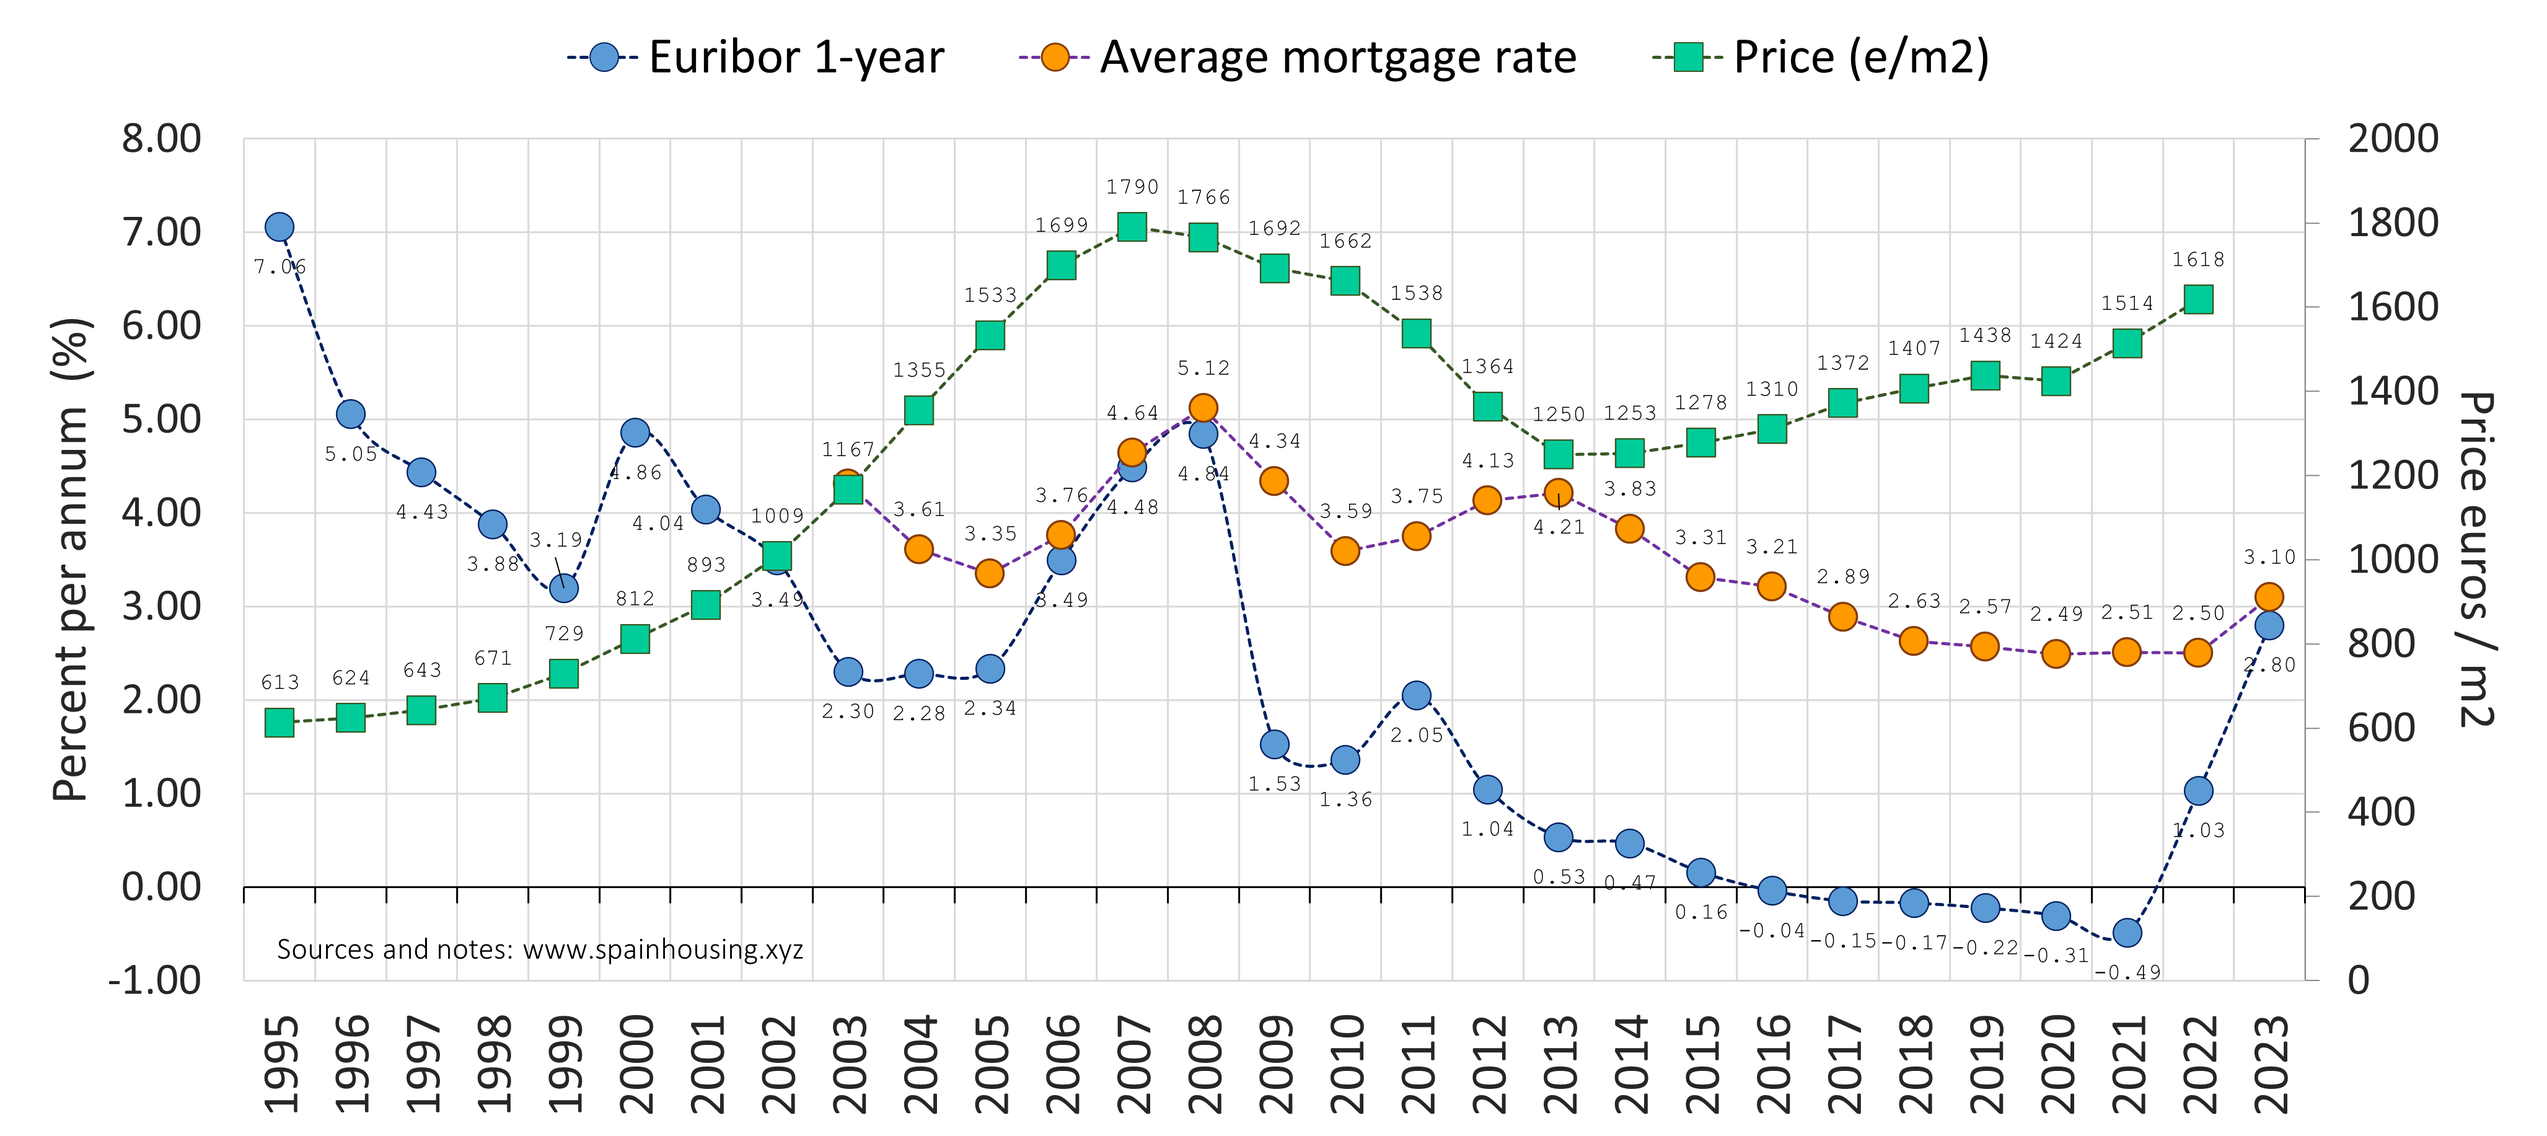
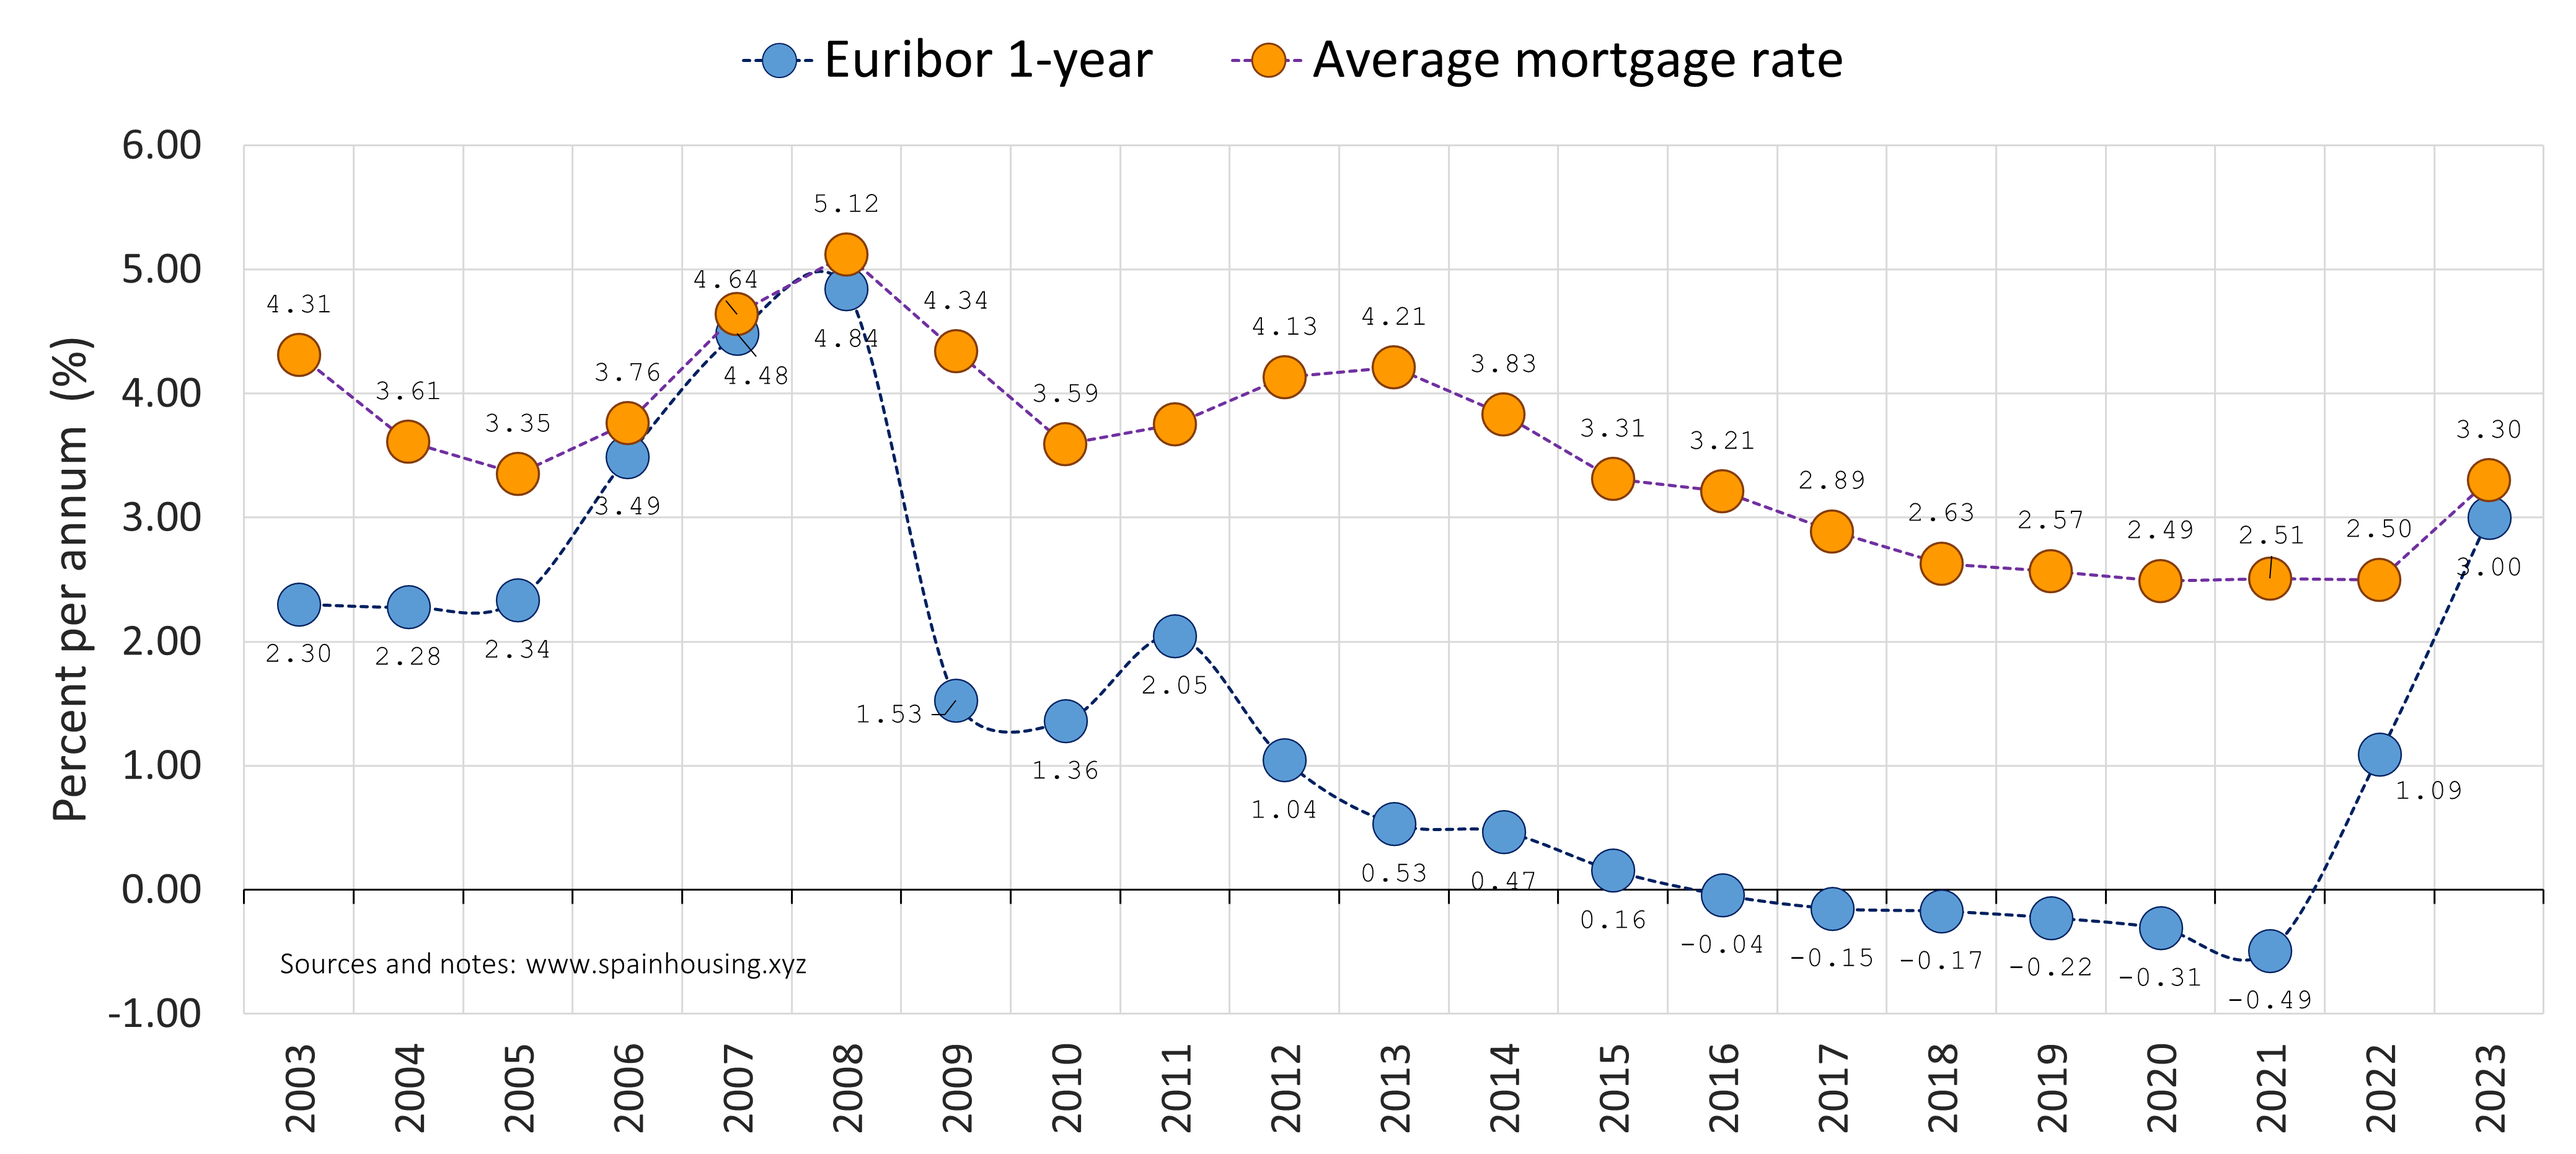
update_interest rate

diff --git a/pages/posts/credit.md b/pages/posts/credit.md
@@ -37,9 +37,12 @@ Credit correlates positively with the evolution of housing prices. Some observat
 
 [![Euribor y interes hipotecas](/images/euribor.png)](/images/euribor.png)
 
-- **Euribor, mortgage rates and housing prices**, Spain.
-  - **Left axis (%)**: Euribor 1-year average rate and average mortgage rate.
-  - **Right axis (e/m2)**: house price in euros per square meter.
+- **Euribor 1-year average rate and average mortgage rate**, Spain.
+
+[![Politica monetaria y precio vivienda](/images/pricemoneypolicy.png)](/images/pricemoneypolicy.png)
+
+- **Nominal price and Interest rate**: percentage of annual change compared to the previous year.
+  - _About the interest rate_: until 2001, the reference interest rate is the _Mibor_, and from 2002 onwards is the _Euribor_. The interest rate value has been multiplied by a factor of 10 for easier visualization. Blue = tight monetary policy; orange = loose monetary policy.
 
 [![Tipo de hipotecas firmadas](/images/typemortgage.png)](/images/typemortgage.png)
 
@@ -58,7 +61,8 @@ The _Euro Interbank Offered Rate_ (Euribor) plays a key role in the mortgage mar
 - Mortgages, from 1995 to 2002, according to "El mercado de la vivienda en España: una década prodigiosa (1995-2005)", by Isabel Nóvoa Arechaga and Pedro López Suárez, tabla 13 (_mortgage releases from this period have been extrapolated using the approved mortgages_): [Publication](https://dialnet.unirioja.es/descarga/articulo/2499407.pdf)
 - Mortgages, from 2003 onwards  (_Results > Annual > National results and by Autonomous Community > Mortgages constituted, over the total properties, by nature of the property > Dwellings_): [Link](https://www.ine.es/dyngs/INEbase/en/operacion.htm?c=Estadistica_C&cid=1254736170236&menu=resultados&idp=1254735576757#!tabs-1254736169948)
 - Inflation data (_Table: average inflation Spain (CPI) - by year_): [Link](https://www.inflation.eu/en/inflation-rates/spain/historic-inflation/cpi-inflation-spain.aspx)
-- Euribor 1-year rate averaged  (_Euribor 1-year - Historical close, average of observations through period _): [Link](https://sdw.ecb.europa.eu/quickview.do?SERIES_KEY=143.FM.M.U2.EUR.RT.MM.EURIBOR1YD_.HSTA)
+- Euribor 1-year rate averaged, from 2002 onwards (_Euribor 1-year - Historical close, average of observations through period _): [Link](https://sdw.ecb.europa.eu/quickview.do?SERIES_KEY=143.FM.M.U2.EUR.RT.MM.EURIBOR1YD_.HSTA)
+- Mibor 1-year rate averaged, from 1979 to 2001 (_Cuadro 19.1 del BE - Tipo de interés. De referencia. Oficiales. Mercado hipotecario. Interbancario. Mibor a 1 año_): [Link](https://www.bde.es/webbde/es/estadis/infoest/temas/sb_tiintref.html)
 - Average mortgage rate (_Results > Annual > National indicators > Average interest rate of mortgages constituted > Viviendas + Total_): [Link](https://www.ine.es/dyngs/INEbase/operacion.htm?c=Estadistica_C&cid=1254736170236&menu=resultados&idp=1254735576606#!tabs-1254736169948)
 - Mortgages constituted according to interest rate (_Results > Annual > National indicators > Mortgages constituted according to interest rate > Viviendas + Fijo & Variable_): [Link](https://www.ine.es/dyngs/INEbase/operacion.htm?c=Estadistica_C&cid=1254736170236&menu=resultados&idp=1254735576606#!tabs-1254736169948)
 

diff --git a/pages/posts/multivariate.md b/pages/posts/multivariate.md
@@ -12,7 +12,7 @@ import Image from 'next/image'
 
 [![Datos del mercado inmobiliario](/images/multivariate.png)](/images/multivariate.png)
 
-- The model groups together seven variables: nominal price, real price, sales, inflation, mortgages, euribor and employment.
+- The model groups together seven variables: nominal price, real price, sales, inflation, mortgages, interest rate and employment.
 
 # Interpretation and observations
 
@@ -20,7 +20,10 @@ All variables are represented as a percentage. Some clarifications to facilitate
 
 - **Unemployment, Inflation**: average rate for the given year.
 - **Real price**[^1]: percentage difference between the nominal and the inflation rate.
-- **Mortgages, Euribor, Home sales, Nominal price**: percentage of annual change compared to the previous year. For the _Euribor_ data, the value has been multiplied by a factor of 10 for easier visualization (green = tight monetary policy; red = loose monetary policy).
+- **Mortgages, Home sales, Nominal price**: percentage of annual change compared to the previous year.
+- **Interest rate (_Mibor/Euribor_)**: percentage of annual change compared to the previous year. Two observations:
+    - The value has been multiplied by a factor of 10 for easier visualization (green = tight monetary policy; red = loose monetary policy).
+    - Until 2001, the reference interest rate is the _Mibor_, and from 2002 onwards is the _Euribor_.
 
 # Data sources
 
@@ -31,6 +34,8 @@ All variables are represented as a percentage. Some clarifications to facilitate
 - Unemployment (_Results > Annual > Unemployed persons > Unemployment rates by sex and age group_): [Link](https://www.ine.es/dyngs/INEbase/en/operacion.htm?c=Estadistica_C&cid=1254736176918&menu=resultados&idp=1254735976595#!tabs-1254736195128)
 - Inflation data (_Table: average inflation Spain (CPI) - by year_): [Link](https://www.inflation.eu/en/inflation-rates/spain/historic-inflation/cpi-inflation-spain.aspx)
 - Population according to INE (_Results > Main series since 1971 > National results, Resident population by date, sex and age > Data used is from January 1st of the current year_): [Link](https://www.ine.es/dyngs/INEbase/en/operacion.htm?c=Estadistica_C&cid=1254736176951&menu=resultados&idp=1254735572981)
+- Euribor 1-year rate averaged, from 2002 onwards (_Euribor 1-year - Historical close, average of observations through period _): [Link](https://sdw.ecb.europa.eu/quickview.do?SERIES_KEY=143.FM.M.U2.EUR.RT.MM.EURIBOR1YD_.HSTA)
+- Mibor 1-year rate averaged, from 1979 to 2001 (_Cuadro 19.1 del BE - Tipo de interés. De referencia. Oficiales. Mercado hipotecario. Interbancario. Mibor a 1 año_): [Link](https://www.bde.es/webbde/es/estadis/infoest/temas/sb_tiintref.html)
 
 <div class="meta-line"><a class="meta-back" href="/">← Back to home page</a></div>
 

diff --git a/pages/posts/cost.md b/pages/posts/cost.md
@@ -31,5 +31,7 @@ About the ratio between the housing price and the construction cost. A higher ra
 - Number of units per type and m², Single Family (_unifamiliar_) and Condominiums (_en bloque_) (_6.Visados de dirección de obra: Obra nueva, ampliación y/o reforma. Nº de viviendas y superficie media según tipo de obra y destino principal._): [Link](https://www.fomento.gob.es/BE/?nivel=2&orden=09000000)
 - Material execution budget (_3. Visados de dirección de obra: Obra nueva. Presupuesto de ejecución material según destino principal._): [Link](https://www.fomento.gob.es/BE/?nivel=2&orden=09000000)
 - Cost of materials (_This data has not been used in the charts displayed_): [Link](https://apps.fomento.gob.es/BoletinOnline/?nivel=2&orden=08000000)
+- Housing prices, from 1985 to 2006, according to Sociedad de Tasación (_Access to data is under request, but can be seen in the linked publication_): [Publication](https://www.st-tasacion.es/ext/pdf/estudios/sep19/2-Evolucion_de_Precios_de_Vivienda.pdf), [Link](https://www.st-tasacion.es/informe-de-tendencias-digital/)
+- Housing prices, from 2007 onwards, according to the notaries (_Grupo 5 > Acto 501 - Compraventa inmuebles > Inmuebles en fincas urbanas, viviendas_): [Link](http://www.notariado.org/liferay/web/cien/estadisticas-al-completo)
 
 <div class="meta-line"><a class="meta-back" href="/">← Back to home page</a></div>
